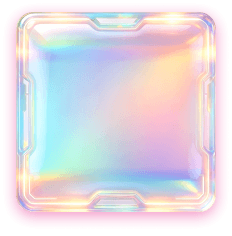
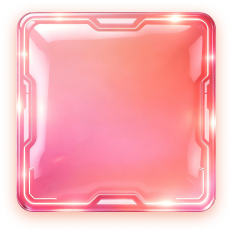
no message

diff --git a/src/pages/product/chaowanshang.vue b/src/pages/product/chaowanshang.vue
@@ -88,7 +88,7 @@
 
                              
                               <div class="p-probability flex_r flex_ac ">
-                                <div class="prob_item" v-for="(i, s) in probability" :key="i.id">
+                                <div class="prob_item" v-if="s != 'Lucky'" v-for="(i, s) in probability" :key="i.id">
                            
                                     <text :class="['prob_name',s]"> 
                                           {{ formatName(s) }}
@@ -105,8 +105,14 @@
                              <view class="list-item" v-for="(item, index) in AllRewardsInfo" :key="index"
                                 @click="ondetail(item)">
                                 <img :src="item.itemHalfImage" class="p-img" />
-                                <img :src="`https://img.shinemang.com/gachaStatic/tag_${item.levelName}.png`"
-                                    :class="['badge','badge'+item.levelName]" />
+                                <view :style="{
+                                    backgroundSize:'100% 100%',
+                                    backgroundImage:`url(https://img.shinemang.com/gachaStatic/tag_${item.levelName}.png)`
+                                }" :class="['badge','badge'+item.levelName]">
+                                    <div  class="text"> {{ item.levelName == 'Lucky' ? item.levelName+(item.luckyNo ? item.luckyNo: '')+'赏':'' }}</div>
+                                </view>
+                                <!-- <img :src="`https://img.shinemang.com/gachaStatic/tag_${item.levelName}.png`"
+                                    :class="['badge','badge'+item.levelName]" /> -->
                                 <!-- <view class="bor"></view> -->
                                 <view class="p-name flex_c flex_jb">
                                     <div class="tit ellipsis">{{ item.itemName }}</div>
@@ -130,7 +136,7 @@
                     <view class="tab">
 
                         <view @click="refreshBtn" class="refresh"></view>
-                     <view @click="recordsTab(value.levelName)" :key="value.levelName" v-if="value.levelName != 'Lucky'" v-for="value in sortList" :class="['tabItem','tabItem'+value.levelName,value.levelName == recordLevelName ? 'active':'']">{{ formatName(value.levelName) }}</view>
+                     <view @click="recordsTab(value.levelName)" :key="value.levelName" v-for="value in sortList" :class="['tabItem','tabItem'+value.levelName,value.levelName == recordLevelName ? 'active':'']">{{ formatName(value.levelName) }}</view>
                   <!-- <view class="tabItem">史诗</view>
                   <view class="tabItem">稀有</view>
                   <view class="tabItem">普通</view> -->
@@ -391,13 +397,14 @@ import ball from "@/page-activity/ball/ball.vue";
 import xPay from "@/components/x-pay/index.vue";
 import duoyou from "@/pages/product/modules/duoyou.vue";
 import xPrize from "@/components/modules/x-prize";
-import { formateGachaLevelName } from "../../utils/mgtv";
+import { formateGachaLevelName,ensureLuckyAfterSp } from "../../utils/mgtv";
 import bgc1 from '@/static/bg1.png'
 import bgc2 from '@/static/bg2.png'
 import DanmakuSimple from '@/components/danmu/danmu'
 import {awardsSort} from '@/utils/mgtv.js'
 import feudalLord from "@/components/feudalLord/index.vue";
 import bzModal from "@/components/bzModal/bzModal.vue";
+
 export default {
     data() {
         return {
@@ -565,6 +572,7 @@ export default {
                         if(gachaAwards.filter((item)=>item.levelIndex == 52).length){
                         this.recordLevelName = '宝箱'
                         }else{
+                        
                             this.recordLevelName = 'SP'
                         }
                 
@@ -708,8 +716,9 @@ export default {
                 }
             }
             let A = [...map.values()];
-            this.sortList = A;
-         
+            this.sortList = ensureLuckyAfterSp(A);
+            console.log(this.sortList);
+            
             this.probability = obj;
             console.log(this.probability);
             // #ifdef APP
@@ -1652,8 +1661,36 @@ text-transform: none;
             left: 0;
             top: 168rpx;
 
-            &.badge宝箱{
+            &.badge宝箱,&.badgeLucky{
                 width: 120rpx;
+            }
+            &.badgeLucky{
+                display: flex;
+                align-items: center;
+                text-align: center;
+                .text{
+                     text-align: center;
+                 font-family:'倍数欧气值';
+                font-weight: 400;
+                font-size:22rpx;
+                color: #FF5C7A;
+                width: 100%;
+                //  background: linear-gradient(360deg, #FF91F9 10%, #FF91F9 40%, #FFF0FE 80%, #FFCFFB 100%);
+                // text-stroke:0.4px #000000;
+              
+                //   -webkit-background-clip: text;
+            //   -webkit-text-fill-color: transparent;
+            //  background-clip: text;
+                font-style: normal;
+                text-transform: none;
+                    text-shadow: -1px -1px 0 #000, 1px -1px 0 #000, -1px 1px 0 #000, 1px 1px 0 #000;
+    
+                // -webkit-text-stroke: 0.4px #000000;
+                }
+               
+            //    width: 64rpx;
+            //     height: 40rpx;
+               
             }
         }
 
@@ -1799,6 +1836,11 @@ text-transform: none;
             background: #FF93C7;
         }
         }
+       &.tabItemLucky {
+            &.active{
+            background: #FF5C7A;
+        } 
+        }
         &.tabItemA{
             &.active{
             background: #F9E650;
@@ -1868,6 +1910,12 @@ padding: 0 26rpx;
         &.active{
             background: #FF93C7;
         }
+        
+        }
+         &.tabItemLucky {
+            &.active{
+            background: #FF5C7A;
+        } 
         }
         &.tabItemA{
             &.active{

diff --git a/src/utils/mgtv.js b/src/utils/mgtv.js
@@ -182,16 +182,18 @@ export const mgTvIsLogin = () => {
 
 
 export const formateGachaLevelName = (levelName) => {
-   if(levelName == 'SP'){
+          if(levelName == 'SP'){
             return '传说'
            }else if(levelName == 'A'){
             return '史诗'
            }else if(levelName == 'B'){
             return '稀有'
            }else if(levelName == 'C'){
-               return '普通'
+             return '普通'
            }else if(levelName == '宝箱'){
             return '宝藏'
+           }else if(levelName == 'Lucky'){
+            return 'Lucky'
            }
 }
 
@@ -387,3 +389,29 @@ export const choushangResultByItemId =(data)=>{
 export const isPositiveInteger = (value) => {
   return /^[1-9]\d*$/.test(value);
 };
+
+export const  ensureLuckyAfterSp = (list) =>{
+  const spIndex = list.findIndex(item => item.levelName === 'SP');
+  const luckyIndex = list.findIndex(item => item.levelName === 'Lucky');
+
+  // 没有 SP 或没有 Lucky，直接返回原数组
+  if (spIndex === -1 || luckyIndex === -1) {
+    return list;
+  }
+
+  // 如果 Lucky 已经在 SP 后面，直接返回
+  if (luckyIndex > spIndex) {
+    return list;
+  }
+
+  // 否则把 Lucky 移动到 SP 后面
+  const result = [...list];
+  const [luckyItem] = result.splice(luckyIndex, 1);
+
+  // 删除 Lucky 后，SP 的下标可能会变化
+  const newSpIndex = result.findIndex(item => item.levelName === 'SP');
+
+  result.splice(newSpIndex + 1, 0, luckyItem);
+
+  return result;
+}

diff --git a/src/pages/product/modules/duoyou.vue b/src/pages/product/modules/duoyou.vue
@@ -1064,7 +1064,18 @@ export default {
 
 }
 
+.cl_Lucky {
+  width: 168rpx;
+    height: 32rpx;
+    background: url('@/static/result/tag_Lucky1.png');
+    background-size: 100% 100%;
+    position: absolute;
+    left: 50%;
+    transform: translateX(-50%);
+    bottom: 25rpx;
+    z-index: 2;
 
+}
 
 .card-front {
     width: 374rpx;
@@ -1114,7 +1125,10 @@ export default {
      background: url('@/static/result/kuang_C.png');
      background-size: 100% 100%;
     }
-
+ &.kuang_Lucky{
+     background: url('@/static/result/kuang_Lucky.png');
+     background-size: 100% 100%;
+    }
 
    }
     .share_btn {
